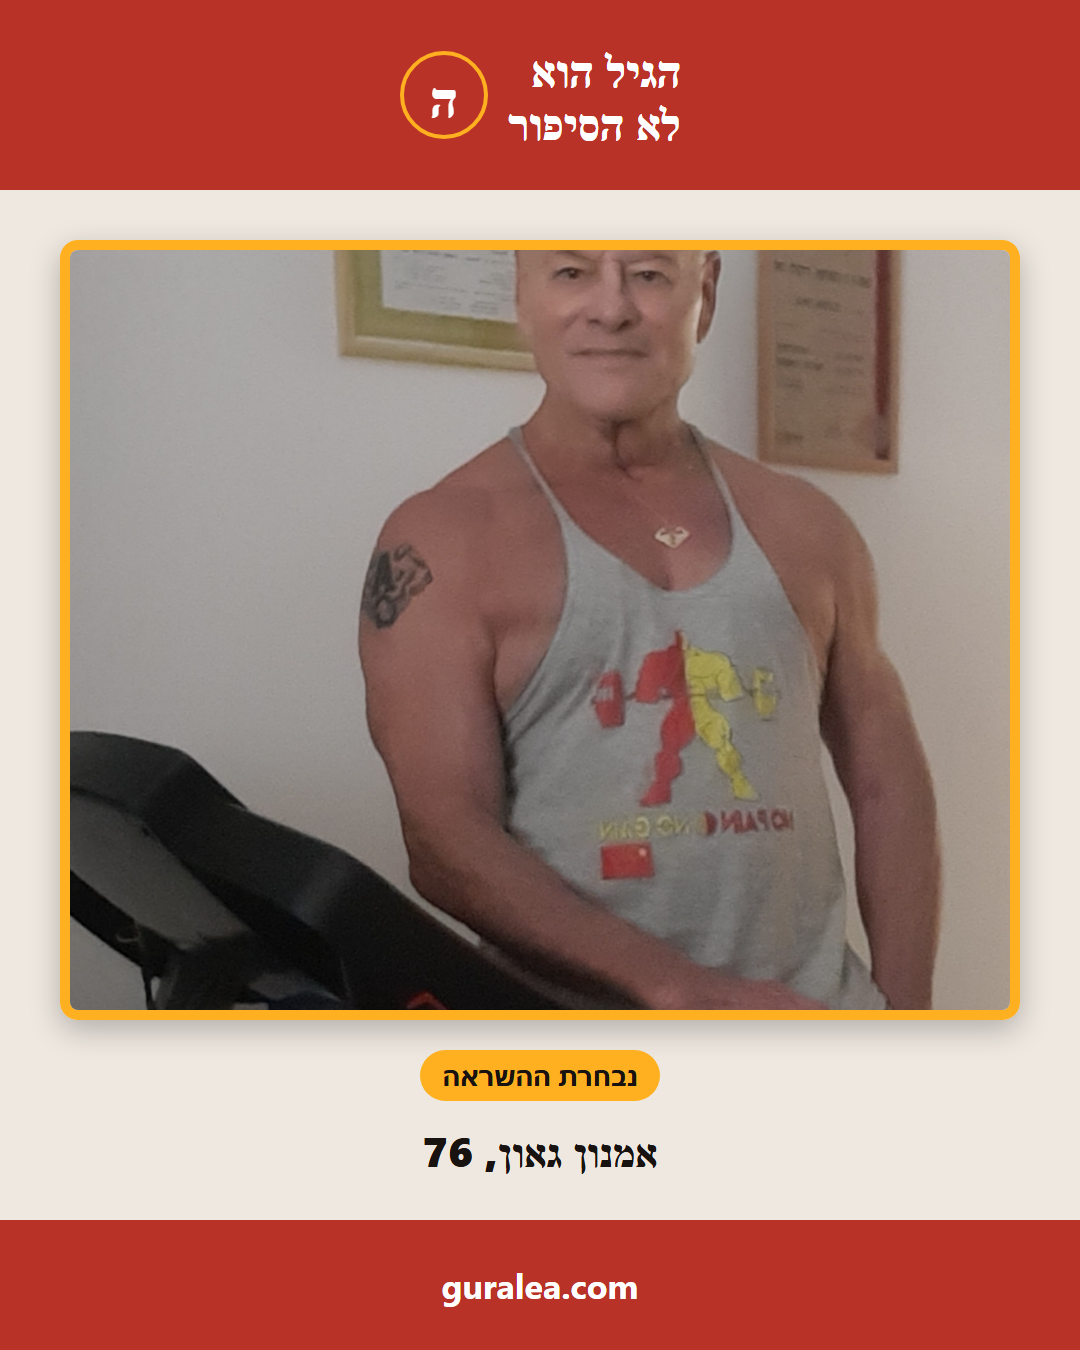
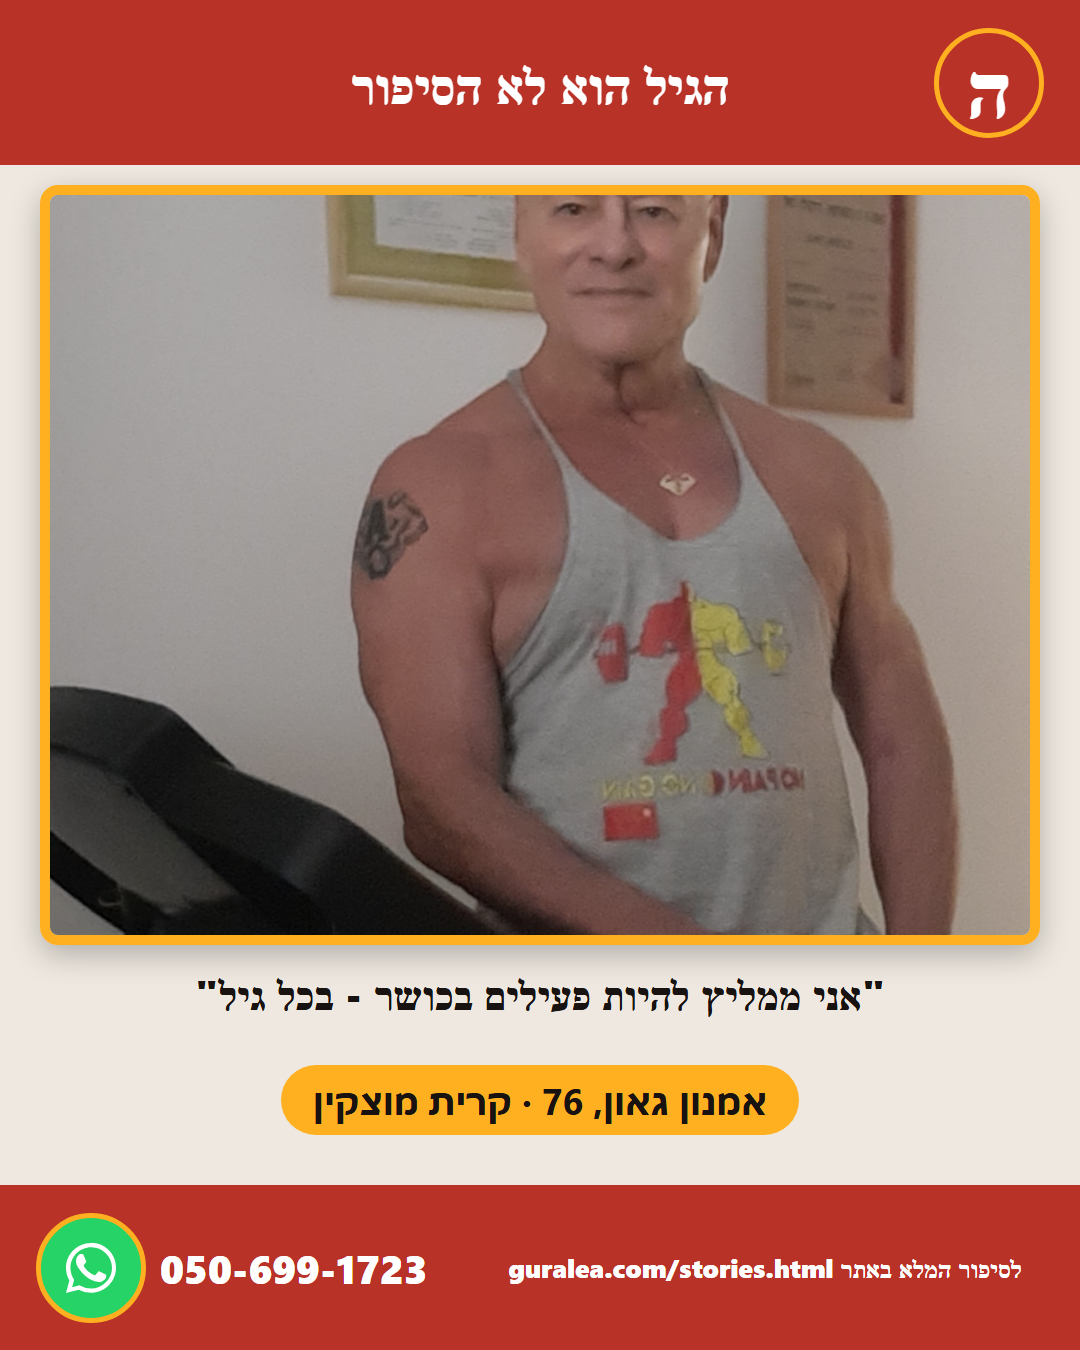
Update Amnon/Eliezer/Avi branded images to new badge design, plan relaunch sequence
Rebuilds all 3 remaining community-story branded images with the
locked logo+WhatsApp corner-badge template (matching Shai's), approved
by Leah 2026-09-02. Records the relaunch schedule: Eliezer next
Wednesday (2026-09-09), Avi after him - Amnon already went out
2026-08-24 and isn't being redone. Asset update only, nothing scheduled
or published yet.

diff --git a/.claude/skills/facebook-teaser/SKILL.md b/.claude/skills/facebook-teaser/SKILL.md
@@ -5,6 +5,16 @@ description: Creates one short Facebook teaser post per day for the "הגיל ה
 
 # Daily Facebook teaser
 
+## Relaunch sequence for the 4 community stories (Leah's plan, set 2026-09-02)
+
+The 4 approved community-story members get relaunched one at a time (branded image + caption, new corner-badge design), not all at once:
+1. **אמנון גאון** - already relaunched 2026-08-24 (figura_ramla only, old pre-badge design) - he was first, done, do not redo.
+2. **שי טובול** - already relaunched 2026-09-02 morning (5 destinations, old pre-badge design - his image file has since been updated with the new badge for future reuse, but his post itself is not being redone).
+3. **אליעזר רוה** - next: **Wednesday 2026-09-09**. Branded image already built and approved by Leah 2026-09-02 (`render-final-eliezer.png` equivalent, quote "אל תשקוד על שמריך") - use that design as-is via `post-frame-template.html`, don't rebuild from scratch. Still needs her explicit approval on the day before actually publishing/scheduling (the standing approval-gate rule applies as always - having approved the *image* on 2026-09-02 is not approval to *publish* it on 2026-09-09 without checking in again).
+4. **אבי תורג'מן** - after Eliezer (no fixed date given yet - ask Leah for timing when Eliezer's turn comes up, or check back with her). Branded image already built and approved 2026-09-02 (quote "הכול בראש. הכול אפשרי").
+
+Destinations for both (per the "REVERSED 2026-09-01" standing default): all 5 - Facebook+Instagram+TikTok for `hagil_lo_hasipor`, Facebook+Instagram for `figura_ramla`. Caption format: same structure as Shai's (facts-only hook, the "אם הסיפור שלו/שלה..." line, link, slogan, hashtags, then the WhatsApp closing line with the number) - write fresh per-person facts, don't reuse Shai's caption text.
+
 ## STANDING RULE, added 2026-09-02: every published image carries the logo AND a WhatsApp badge, no exceptions
 
 Leah's explicit instruction: **every image that goes out for publication - story, teaser, workshop, any post, any channel - must include two fixed elements, both baked into `post-frame-template.html` itself now (already implemented, don't rebuild from scratch):**
